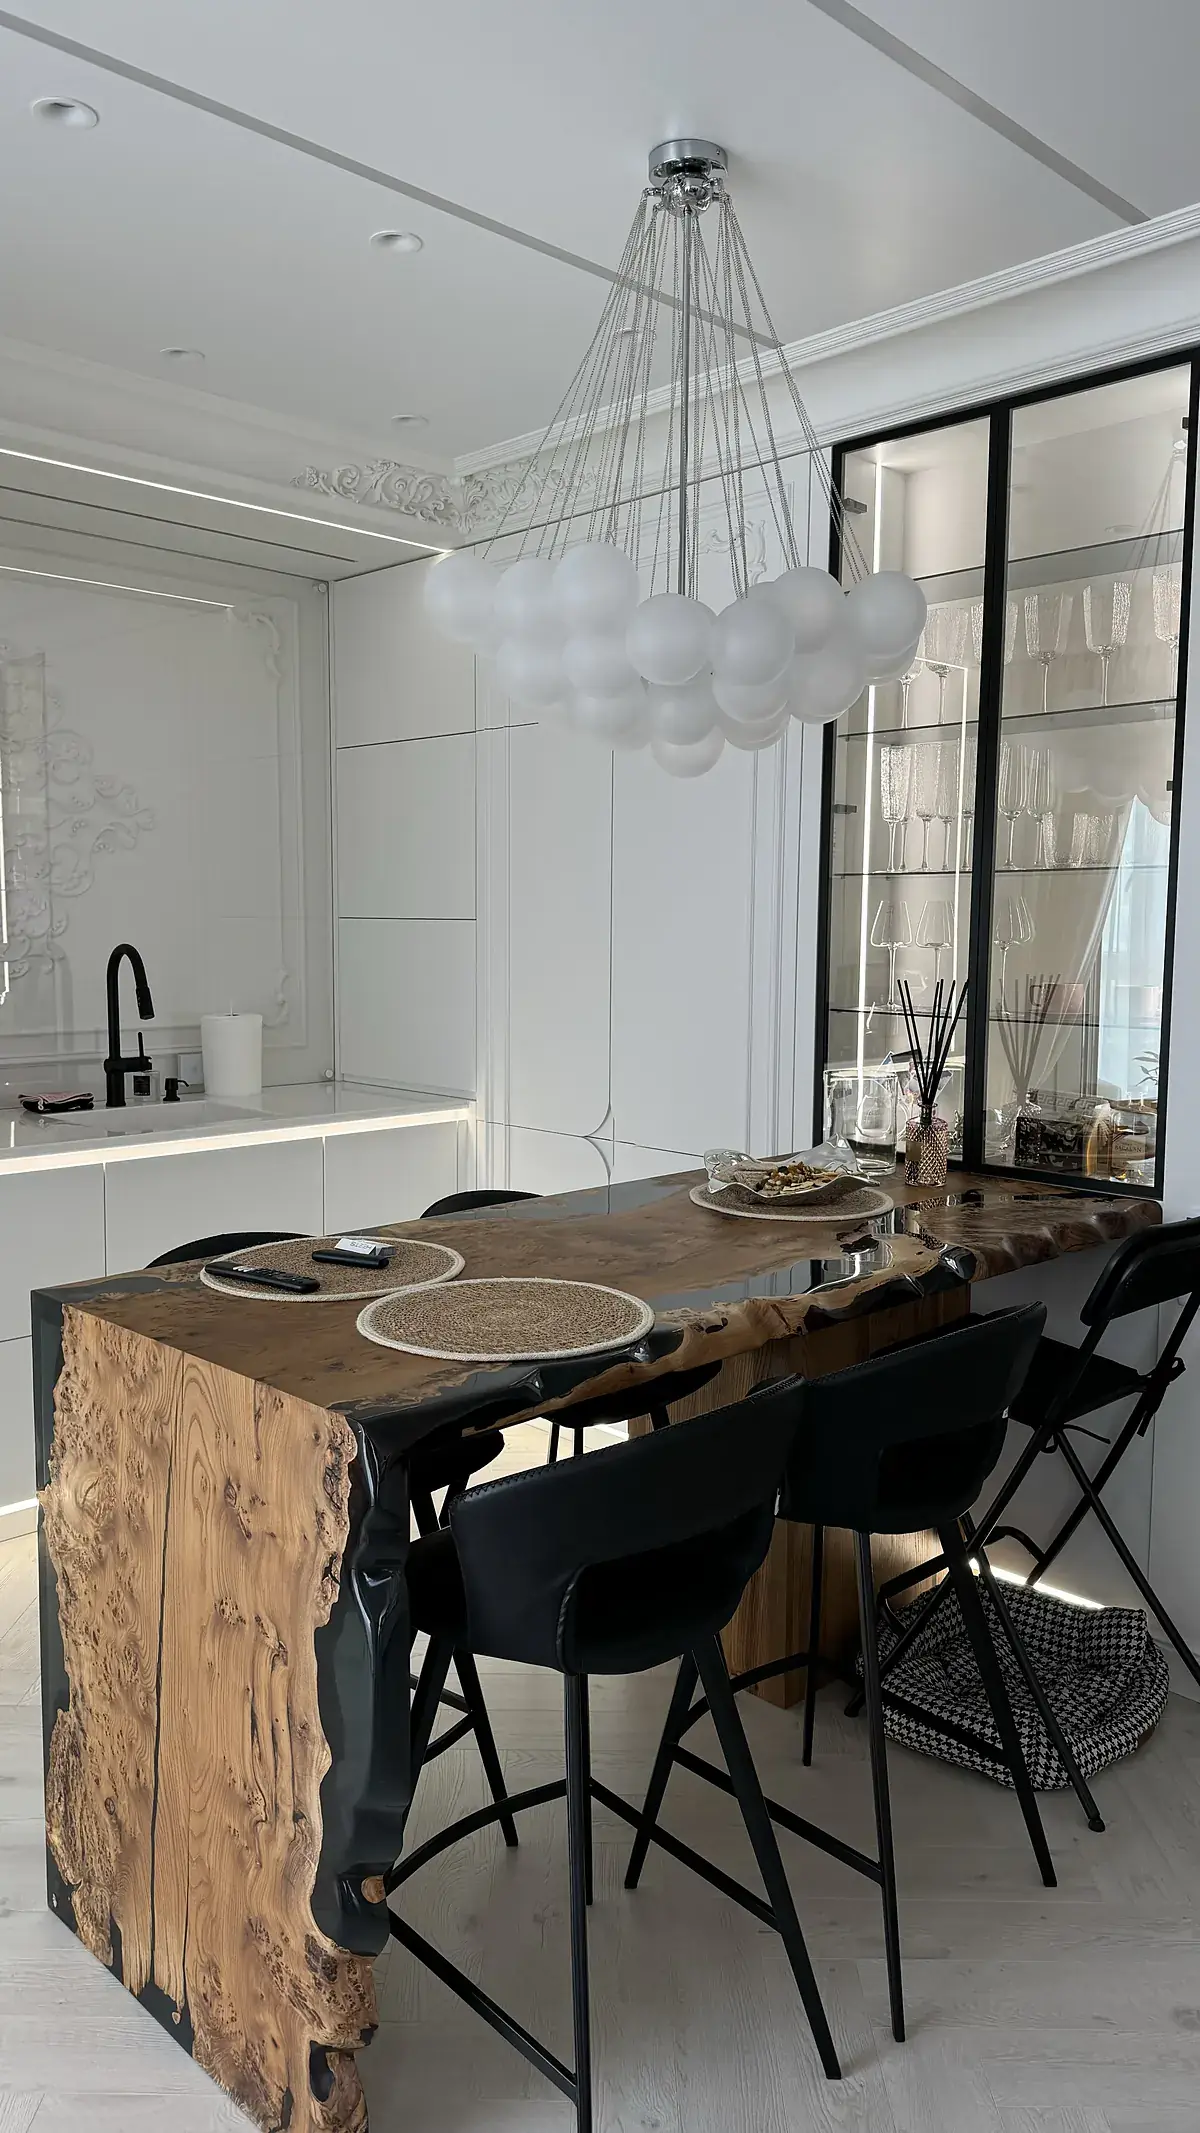
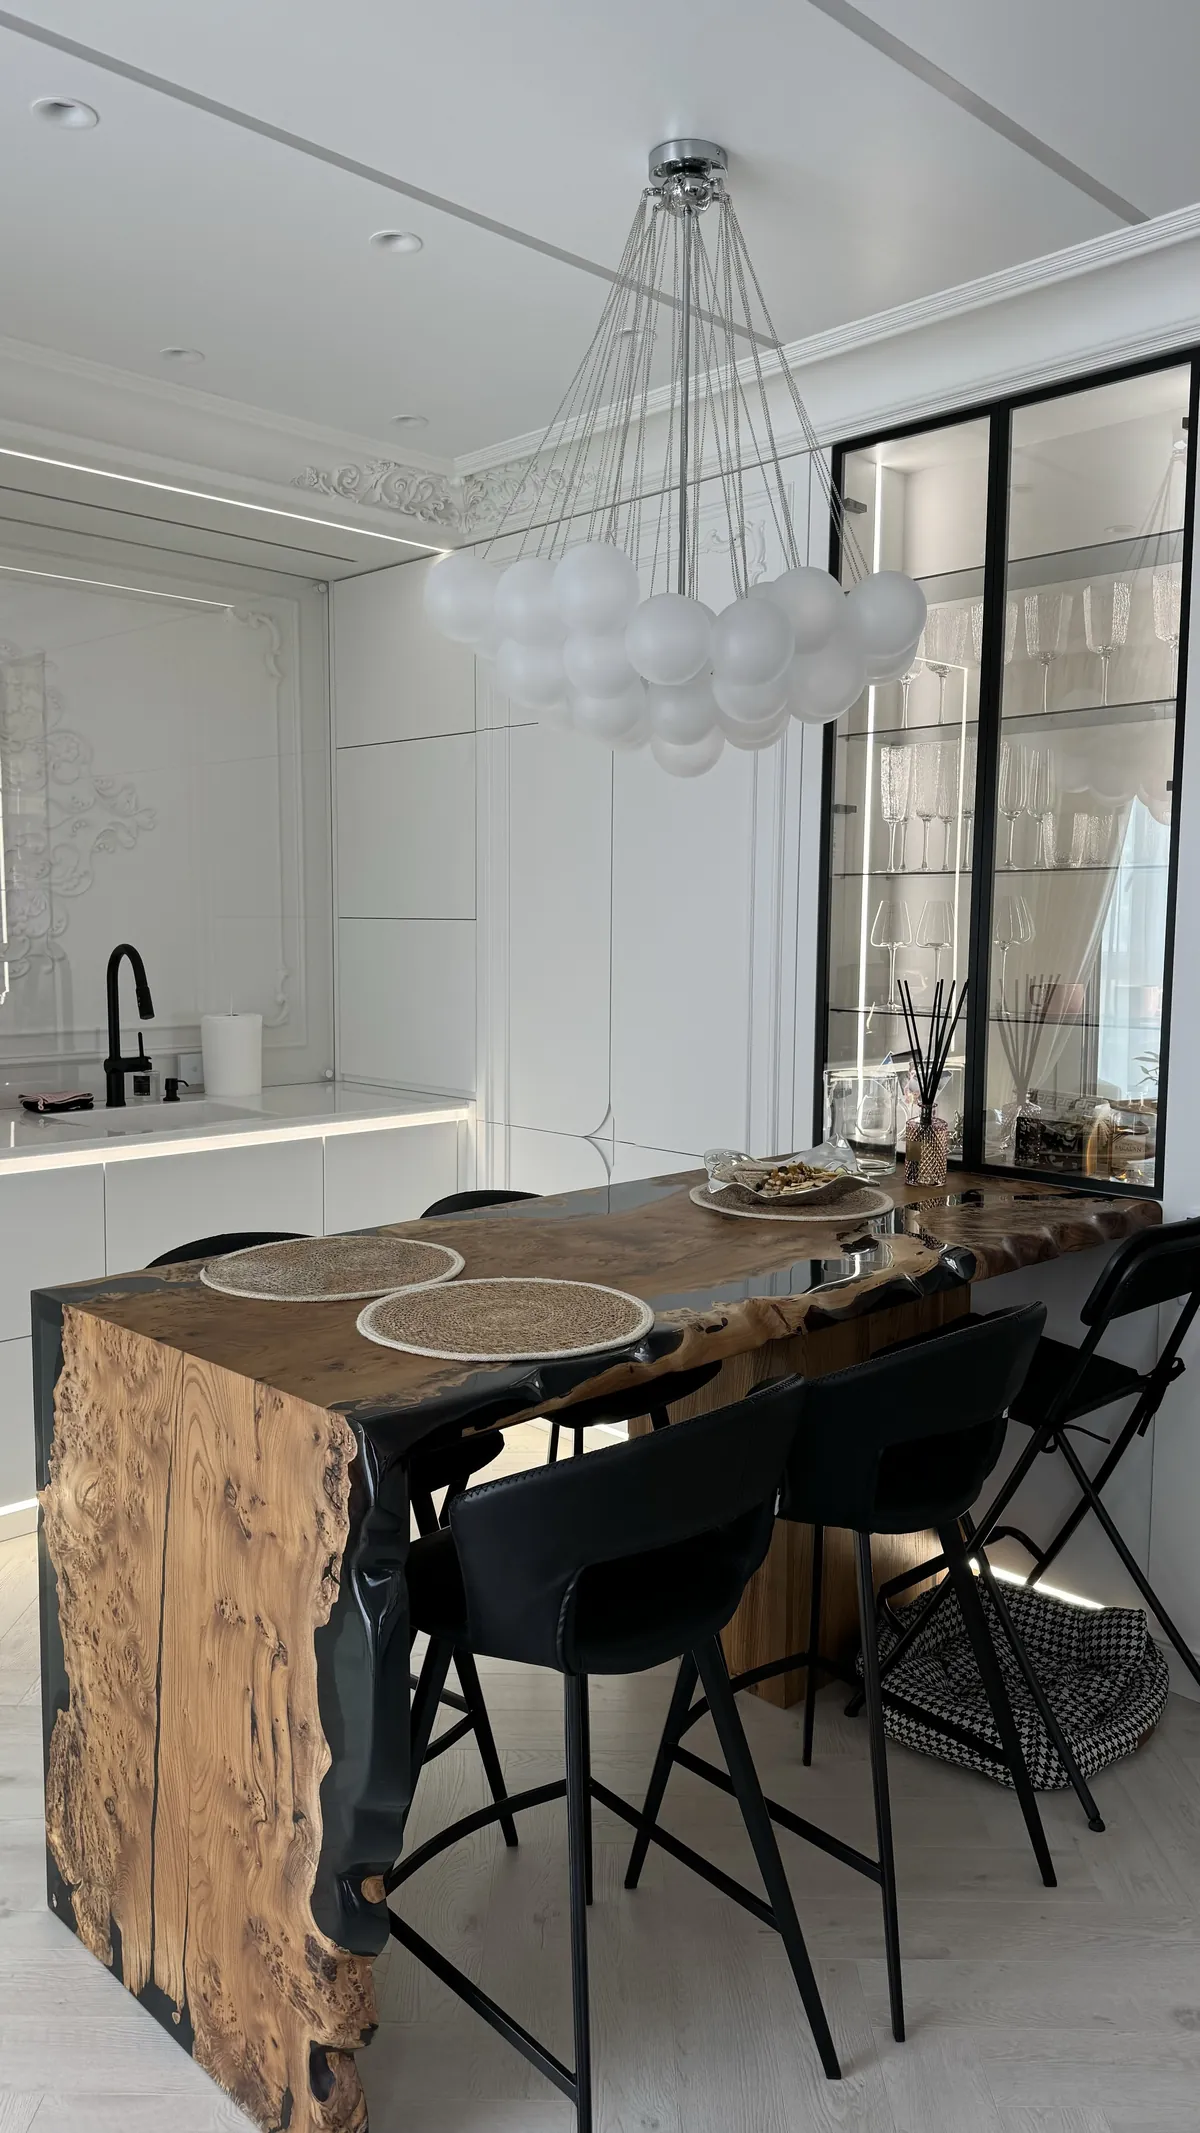
previews batch: 1 шт

Changed region(s): [[0.1542, 0.557, 0.3392, 0.6188], [0.74, 0.4641, 0.8017, 0.557]]

diff --git a/agata-mebel/styles.css b/agata-mebel/styles.css
@@ -753,3 +753,67 @@ body.mbar-on{ padding-bottom:76px }
 @media (min-width:901px) and (max-height:600px){
   .dirs-side{ position:static }
 }
+
+/* ---------- Первый экран: фото фоном, текст на фото (по образцу заказчицы) ---------- */
+.hero.hero-full{ display:block; position:relative; min-height:100vh; min-height:100svh; padding:0; overflow:hidden; background:var(--bg-2); color:var(--text) }
+.hero-full .hero-bg{ position:absolute; inset:0; z-index:0; height:auto; min-height:0; background:var(--bg-2) }
+.hero-full .hero-bg img{ position:absolute; inset:0; width:100%; height:100%; object-fit:cover; object-position:60% 62%; opacity:1; transform:none; transition:none }
+/* текст стоит на светлой стене кадра; под ним только едва заметная подложка, правая часть фото чистая */
+.hero-full .hero-bg::after{ content:""; position:absolute; inset:0; pointer-events:none;
+  background:linear-gradient(90deg, rgba(247,244,239,.42) 0%, rgba(247,244,239,.26) 28%, rgba(247,244,239,0) 50%) }
+.hero-full .hero-content{ position:relative; z-index:1; min-height:100vh; min-height:100svh; display:flex; flex-direction:column; justify-content:center; padding-top:calc(96px + 3vh); padding-bottom:clamp(28px, 5vh, 56px) }
+.hero-full .hero-top{ display:flex; align-items:center; gap:14px; margin:0 0 clamp(18px, 2.6vh, 30px); font:500 11px/1.5 var(--f-body); letter-spacing:.24em; text-transform:uppercase; color:#22262A }
+.hero-full .hero-top::before{ content:""; flex:none; width:26px; height:1px; background:var(--sage) }
+.hero-full h1{ font-size:clamp(46px, 6vw, 104px); margin:0 0 clamp(18px, 2.6vh, 30px); max-width:12ch; color:#15181B }
+.hero-full .lead{ max-width:42ch; color:#24282C; margin-bottom:clamp(24px, 3.6vh, 38px) }
+.hero-full .hero-cta{ display:flex; flex-wrap:wrap; gap:14px }
+.hero-full .btn-ghost{ background:rgba(247,244,239,.78); border-color:rgba(27,30,33,.18); -webkit-backdrop-filter:blur(8px); backdrop-filter:blur(8px) }
+.hero-full .hero-mini{ margin-top:clamp(26px, 4vh, 44px); max-width:380px }
+.hero-full .mini-img{ border:3px solid #fff; box-shadow:0 10px 30px rgba(27,30,33,.18) }
+.hero-full .mini-name{ color:#22262A }
+@media (max-width:1000px) and (orientation:landscape){
+  .hero-full h1{ font-size:clamp(42px, 7vw, 72px) }
+  .hero-full .hero-bg::after{ background:linear-gradient(90deg, rgba(247,244,239,.7) 0%, rgba(247,244,239,.5) 36%, rgba(247,244,239,0) 64%) }
+}
+/* невысокие экраны ноутбуков: мини-фото компактнее, чтобы всё помещалось в первый экран */
+@media (min-width:1001px) and (max-height:800px){
+  .hero-full .hero-mini{ max-width:300px; margin-top:22px }
+  .hero-full .lead{ margin-bottom:24px }
+}
+@media (orientation:landscape) and (max-height:640px){ .hero-full .hero-mini{ display:none } }
+/* телефон и планшет стоя: вертикальное фото на весь экран, заголовок сверху на светлом потолке,
+   кнопки внизу на фото, мини-фото — полосой сразу под первым экраном */
+@media (max-width:700px), (max-width:1000px) and (orientation:portrait){
+  .hero.hero-full{ display:grid; min-height:0; grid-template-columns:var(--gutter) minmax(0,1fr) var(--gutter);
+    grid-template-rows:auto auto auto minmax(26svh, 1fr) auto auto; background:var(--bg) }
+  .hero-full .hero-bg{ position:relative; inset:auto; grid-column:1 / -1; grid-row:1 / 6; min-height:100svh }
+  .hero-full .hero-bg img{ object-position:50% 40% }
+  .hero-full .hero-bg::after{ display:none }
+  .hero-full .hero-content{ display:contents }
+  .hero-full .hero-content > *{ grid-column:2; position:relative; z-index:1 }
+  .hero-full .hero-top{ grid-row:1; margin:0; padding-top:calc(76px + 20px); letter-spacing:.2em; font-size:10.5px }
+  .hero-full h1{ grid-row:2; margin:12px 0 0; font-size:clamp(40px, 11.4vw, 64px); max-width:none }
+  .hero-full .lead{ grid-row:3; margin:14px 0 0; max-width:30ch; font-size:15.5px; line-height:1.5 }
+  .hero-full .hero-cta{ grid-row:5; align-self:end; padding-bottom:22px; display:grid; grid-template-columns:1fr; gap:10px }
+  .hero-full .hero-cta .btn{ width:100%; height:54px }
+  .hero-full .hero-top, .hero-full h1, .hero-full .lead{ text-shadow:0 0 14px rgba(247,244,239,.9), 0 0 3px rgba(247,244,239,.6) }
+  .hero-full .hero-mini{ grid-row:6; grid-column:1 / -1; max-width:none; margin:0; padding:18px var(--gutter) 6px; background:var(--bg) }
+  .hero-full .mini-img{ border:0; box-shadow:none }
+  .hero-full .mini-name{ color:var(--text-2) }
+}
+@media (max-width:560px){
+  .hero-full .hero-top-salon{ display:none }
+  /* строки подзаголовка не заходят на чёрную раму витрины в кадре */
+  .hero-full .lead{ max-width:calc(70vw - 20px) }
+}
+@media (max-width:1000px) and (orientation:portrait) and (min-width:701px){
+  .hero-full .hero-top{ padding-top:calc(76px + 34px) }
+  .hero-full .lead{ font-size:18px; max-width:36ch }
+  .hero-full .hero-cta{ grid-template-columns:repeat(2, max-content); padding-bottom:40px }
+  .hero-full .hero-cta .btn{ width:auto; height:58px }
+  .hero-full .hero-mini{ max-width:none; padding-top:26px }
+}
+/* логотип заметнее */
+@media (min-width:1101px){ .logo img{ height:56px } .hdr.is-scrolled .logo img{ height:50px } }
+@media (max-width:1100px){ .logo img{ height:42px } .hdr.is-scrolled .logo img{ height:38px } }
+.logo img{ transition:height .3s var(--ease) }

diff --git a/agata-mebel/index.html b/agata-mebel/index.html
@@ -20,8 +20,9 @@
 <meta name="theme-color" content="#F7F4EF">
 <link rel="preload" as="font" type="font/woff2" href="assets/fonts/manrope-300-cyrillic.woff2" crossorigin>
 <link rel="preload" as="font" type="font/woff2" href="assets/fonts/inter-400-cyrillic.woff2" crossorigin>
-<link rel="preload" as="image" href="assets/img/neo-k-1-xl.webp">
-<link rel="stylesheet" href="styles.css?v=15">
+<link rel="preload" as="image" href="assets/img/hero-wide-1920.webp" imagesrcset="assets/img/hero-wide-1280.webp 1280w, assets/img/hero-wide-1920.webp 1920w" imagesizes="100vw" media="(min-width:1001px), (min-width:701px) and (orientation:landscape)">
+<link rel="preload" as="image" href="assets/img/neo-k-1-xl.webp" imagesrcset="assets/img/neo-k-1-800.webp 450w, assets/img/neo-k-1-xl.webp 1200w" imagesizes="100vw" media="(max-width:700px), (max-width:1000px) and (orientation:portrait)">
+<link rel="stylesheet" href="styles.css?v=16">
 <script type="application/ld+json">
 {
   "@context": "https://schema.org",
@@ -95,18 +96,23 @@
 
 <main>
 
-<section class="hero" data-style="neo">
-  <div class="hero-copy">
-    <div class="hero-inner">
-      <p class="hero-top">Мебель на заказ · Калининград · салон в ТЦ «Балтламинат»</p>
-      <h1 class="sp"><span class="ln"><span>Мебель под </span></span><span class="ln"><span>ваш характер</span></span></h1>
-      <p class="lead rv rv-d2">Кухни, шкафы и&nbsp;гардеробные, детские, мебель для&nbsp;ванной, изделия из&nbsp;камня. Квартиры, гостиницы и&nbsp;магазины&nbsp;— от&nbsp;замера до&nbsp;монтажа.</p>
-      <div class="hero-cta rv rv-d3">
-        <a class="btn btn-primary" href="calculator.html">Рассчитать стоимость
-          <svg viewBox="0 0 24 24" fill="none" stroke="currentColor" stroke-width="1.6"><path d="M5 12h14M13 6l6 6-6 6"/></svg></a>
-        <a class="btn btn-ghost" href="#lead">Заявка на замер</a>
-      </div>
-      <div class="hero-mini rv rv-d4">
+<section class="hero hero-full">
+  <div class="hero-bg" aria-hidden="true">
+    <picture>
+      <source media="(max-width:700px), (max-width:1000px) and (orientation:portrait)" srcset="assets/img/neo-k-1-800.webp 450w, assets/img/neo-k-1-xl.webp 1200w" sizes="100vw">
+      <img src="assets/img/hero-wide-1920.webp" srcset="assets/img/hero-wide-1280.webp 1280w, assets/img/hero-wide-1920.webp 1920w" sizes="100vw" alt="" fetchpriority="high" decoding="async">
+    </picture>
+  </div>
+  <div class="container hero-content">
+    <p class="hero-top"><span>Мебель на заказ · Калининград<span class="hero-top-salon"> · салон в ТЦ «Балтламинат»</span></span></p>
+    <h1 class="sp"><span class="ln"><span>Мебель под </span></span><span class="ln"><span>ваш характер</span></span></h1>
+    <p class="lead rv rv-d2">Кухни, шкафы и&nbsp;гардеробные, детские, мебель для&nbsp;ванной, изделия из&nbsp;камня. Квартиры, гостиницы и&nbsp;магазины&nbsp;— от&nbsp;замера до&nbsp;монтажа.</p>
+    <div class="hero-cta rv rv-d3">
+      <a class="btn btn-primary" href="calculator.html">Рассчитать стоимость
+        <svg viewBox="0 0 24 24" fill="none" stroke="currentColor" stroke-width="1.6"><path d="M5 12h14M13 6l6 6-6 6"/></svg></a>
+      <a class="btn btn-ghost" href="#lead">Заявка на замер</a>
+    </div>
+    <div class="hero-mini rv rv-d4">
         <button class="mini" type="button" data-work="neo-apt" data-index="6">
           <span class="mini-img"><img src="assets/img/neo-wc-1-thumb.webp" alt="Санузел с лепниной" width="281" height="500" decoding="async"></span>
           <span class="mini-name">Санузел</span>
@@ -120,10 +126,6 @@
           <span class="mini-name">Гардеробная</span>
         </button>
       </div>
-    </div>
-  </div>
-  <div class="hero-bg" id="hero-photo" aria-hidden="true">
-    <img class="is-active" src="assets/img/neo-k-1-xl.webp" srcset="assets/img/neo-k-1-800.webp 800w, assets/img/neo-k-1-xl.webp 1200w" sizes="(max-width:1000px) 100vw, 48vw" alt="" style="object-position:50% 50%" fetchpriority="high" data-title="Белая кухня с островом из слэба" data-meta="Неоклассика · кухня">
   </div>
 </section>
 
@@ -555,6 +557,6 @@
 
 <script src="works.js?v=15"></script>
 <script src="analytics.js?v=1"></script>
-<script src="app.js?v=15"></script>
+<script src="app.js?v=16"></script>
 </body>
 </html>

diff --git a/agata-mebel/calculator.html b/agata-mebel/calculator.html
@@ -20,7 +20,7 @@
 <meta name="theme-color" content="#F7F4EF">
 <link rel="preload" as="font" type="font/woff2" href="assets/fonts/manrope-300-cyrillic.woff2" crossorigin>
 <link rel="preload" as="font" type="font/woff2" href="assets/fonts/inter-400-cyrillic.woff2" crossorigin>
-<link rel="stylesheet" href="styles.css?v=15">
+<link rel="stylesheet" href="styles.css?v=16">
 </head>
 <body>
 <div class="grain" aria-hidden="true"></div>
@@ -232,7 +232,7 @@
 
 <script src="works.js?v=15"></script>
 <script src="analytics.js?v=1"></script>
-<script src="app.js?v=15"></script>
+<script src="app.js?v=16"></script>
 <script src="calc.js?v=2"></script>
 </body>
 </html>

diff --git a/agata-mebel/contacts.html b/agata-mebel/contacts.html
@@ -20,7 +20,7 @@
 <meta name="theme-color" content="#F7F4EF">
 <link rel="preload" as="font" type="font/woff2" href="assets/fonts/manrope-300-cyrillic.woff2" crossorigin>
 <link rel="preload" as="font" type="font/woff2" href="assets/fonts/inter-400-cyrillic.woff2" crossorigin>
-<link rel="stylesheet" href="styles.css?v=15">
+<link rel="stylesheet" href="styles.css?v=16">
 </head>
 <body>
 <div class="grain" aria-hidden="true"></div>
@@ -203,7 +203,7 @@
 
 <script src="works.js?v=15"></script>
 <script src="analytics.js?v=1"></script>
-<script src="app.js?v=15"></script>
+<script src="app.js?v=16"></script>
 
 </body>
 </html>

diff --git a/agata-mebel/portfolio.html b/agata-mebel/portfolio.html
@@ -20,7 +20,7 @@
 <meta name="theme-color" content="#F7F4EF">
 <link rel="preload" as="font" type="font/woff2" href="assets/fonts/manrope-300-cyrillic.woff2" crossorigin>
 <link rel="preload" as="font" type="font/woff2" href="assets/fonts/inter-400-cyrillic.woff2" crossorigin>
-<link rel="stylesheet" href="styles.css?v=15">
+<link rel="stylesheet" href="styles.css?v=16">
 </head>
 <body>
 <div class="grain" aria-hidden="true"></div>
@@ -202,7 +202,7 @@
 
 <script src="works.js?v=15"></script>
 <script src="analytics.js?v=1"></script>
-<script src="app.js?v=15"></script>
+<script src="app.js?v=16"></script>
 
 </body>
 </html>

diff --git a/agata-mebel/privacy.html b/agata-mebel/privacy.html
@@ -20,7 +20,7 @@
 <meta name="theme-color" content="#F7F4EF">
 <link rel="preload" as="font" type="font/woff2" href="assets/fonts/manrope-300-cyrillic.woff2" crossorigin>
 <link rel="preload" as="font" type="font/woff2" href="assets/fonts/inter-400-cyrillic.woff2" crossorigin>
-<link rel="stylesheet" href="styles.css?v=15">
+<link rel="stylesheet" href="styles.css?v=16">
 </head>
 <body>
 <div class="grain" aria-hidden="true"></div>
@@ -158,7 +158,7 @@
 
 <script src="works.js?v=15"></script>
 <script src="analytics.js?v=1"></script>
-<script src="app.js?v=15"></script>
+<script src="app.js?v=16"></script>
 
 </body>
 </html>

diff --git a/agata-mebel/about.html b/agata-mebel/about.html
@@ -20,7 +20,7 @@
 <meta name="theme-color" content="#F7F4EF">
 <link rel="preload" as="font" type="font/woff2" href="assets/fonts/manrope-300-cyrillic.woff2" crossorigin>
 <link rel="preload" as="font" type="font/woff2" href="assets/fonts/inter-400-cyrillic.woff2" crossorigin>
-<link rel="stylesheet" href="styles.css?v=15">
+<link rel="stylesheet" href="styles.css?v=16">
 </head>
 <body>
 
@@ -218,6 +218,6 @@
 
 <script src="works.js?v=15"></script>
 <script src="analytics.js?v=1"></script>
-<script src="app.js?v=15"></script>
+<script src="app.js?v=16"></script>
 </body>
 </html>

diff --git a/agata-mebel/offers.html b/agata-mebel/offers.html
@@ -20,7 +20,7 @@
 <meta name="theme-color" content="#F7F4EF">
 <link rel="preload" as="font" type="font/woff2" href="assets/fonts/manrope-300-cyrillic.woff2" crossorigin>
 <link rel="preload" as="font" type="font/woff2" href="assets/fonts/inter-400-cyrillic.woff2" crossorigin>
-<link rel="stylesheet" href="styles.css?v=15">
+<link rel="stylesheet" href="styles.css?v=16">
 </head>
 <body>
 
@@ -206,6 +206,6 @@
 
 <script src="works.js?v=15"></script>
 <script src="analytics.js?v=1"></script>
-<script src="app.js?v=15"></script>
+<script src="app.js?v=16"></script>
 </body>
 </html>
